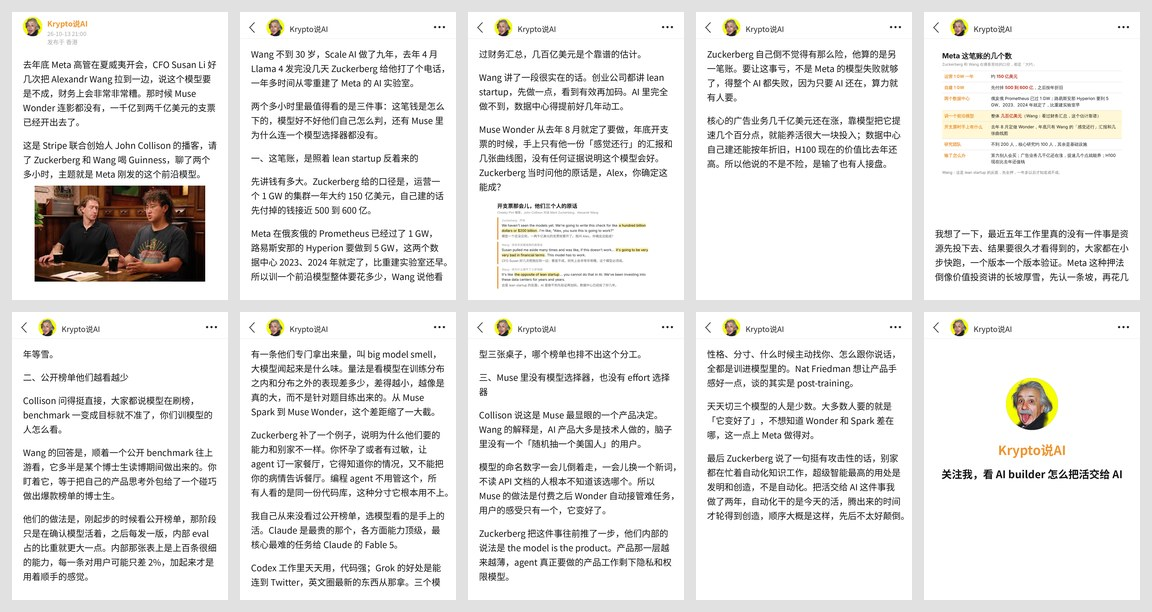
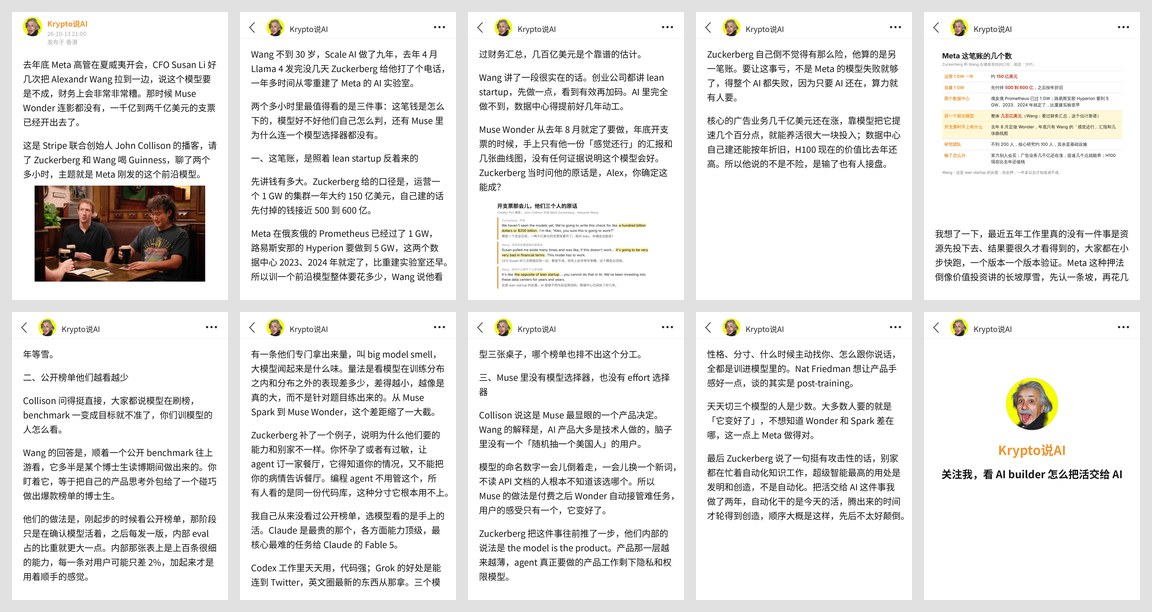
10-13 Muse Wonder 稿：首页换成两人笑着举杯的截图
Claude-Session: https://claude.ai/code/session_01U7qz4eSZJWs6Xuu86S4WTN

Changed region(s): [[0.0312, 0.2794, 0.1875, 0.4657]]

diff --git a/发布/2026-10-13_zuck-wang-muse-wonder/meme版/编辑用/draft.md b/发布/2026-10-13_zuck-wang-muse-wonder/meme版/编辑用/draft.md
@@ -4,7 +4,7 @@ mode: retell
 value: 框架
 keyword: Muse Wonder
 keywords: Meta, Zuckerberg, Alexandr Wang, benchmark
-hero: hero_100b.jpg
+hero: hero_smile.jpg
 hero_after: 2
 time: 26-10-13 21:00
 location: 香港
